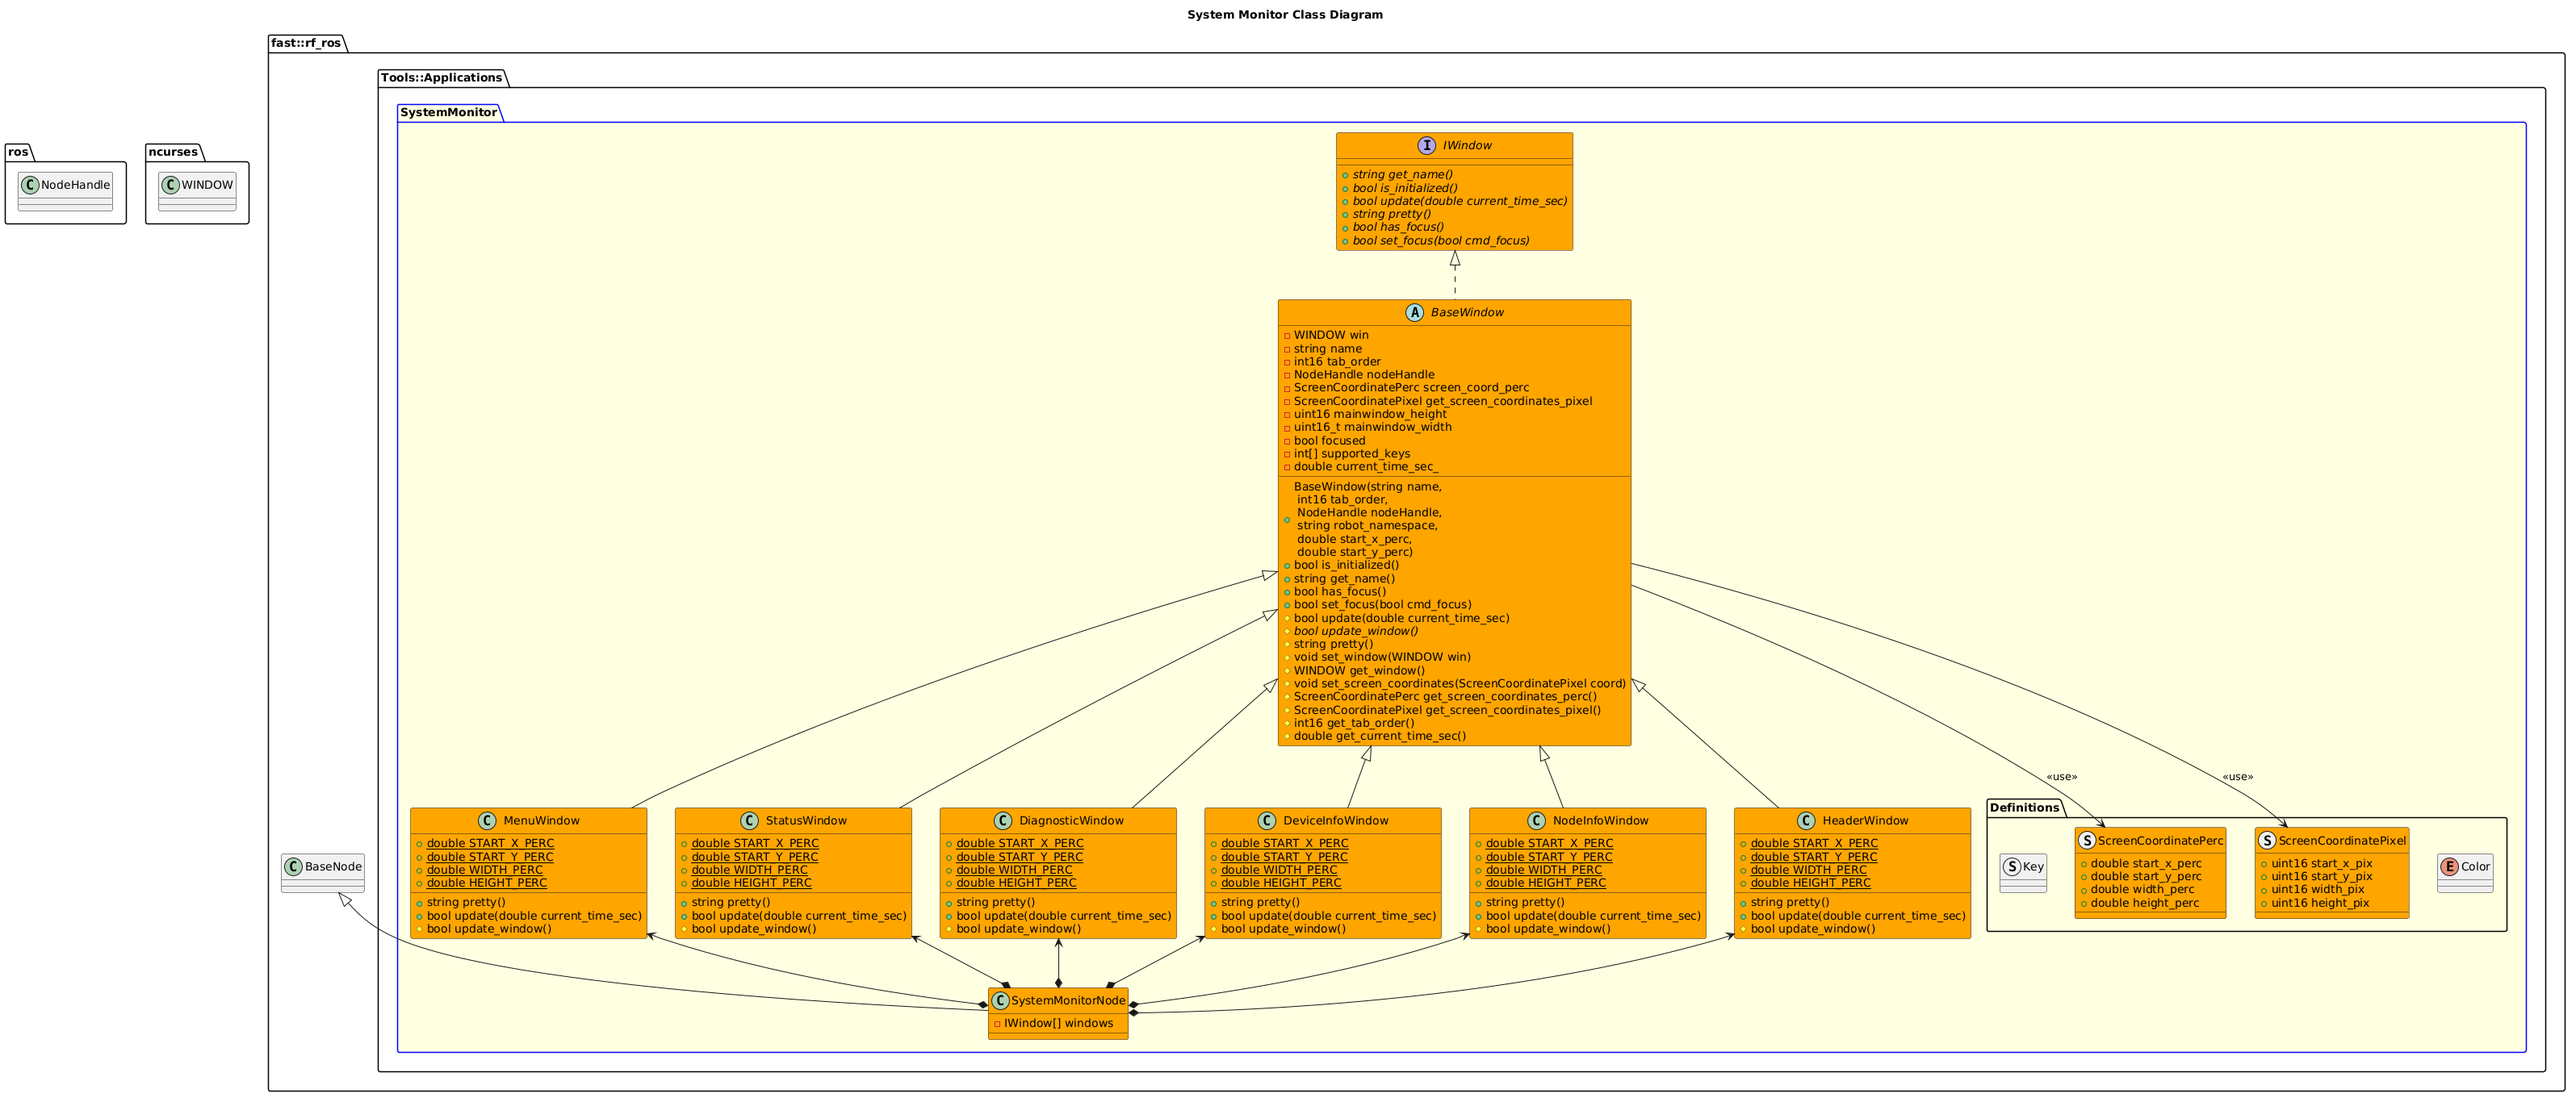
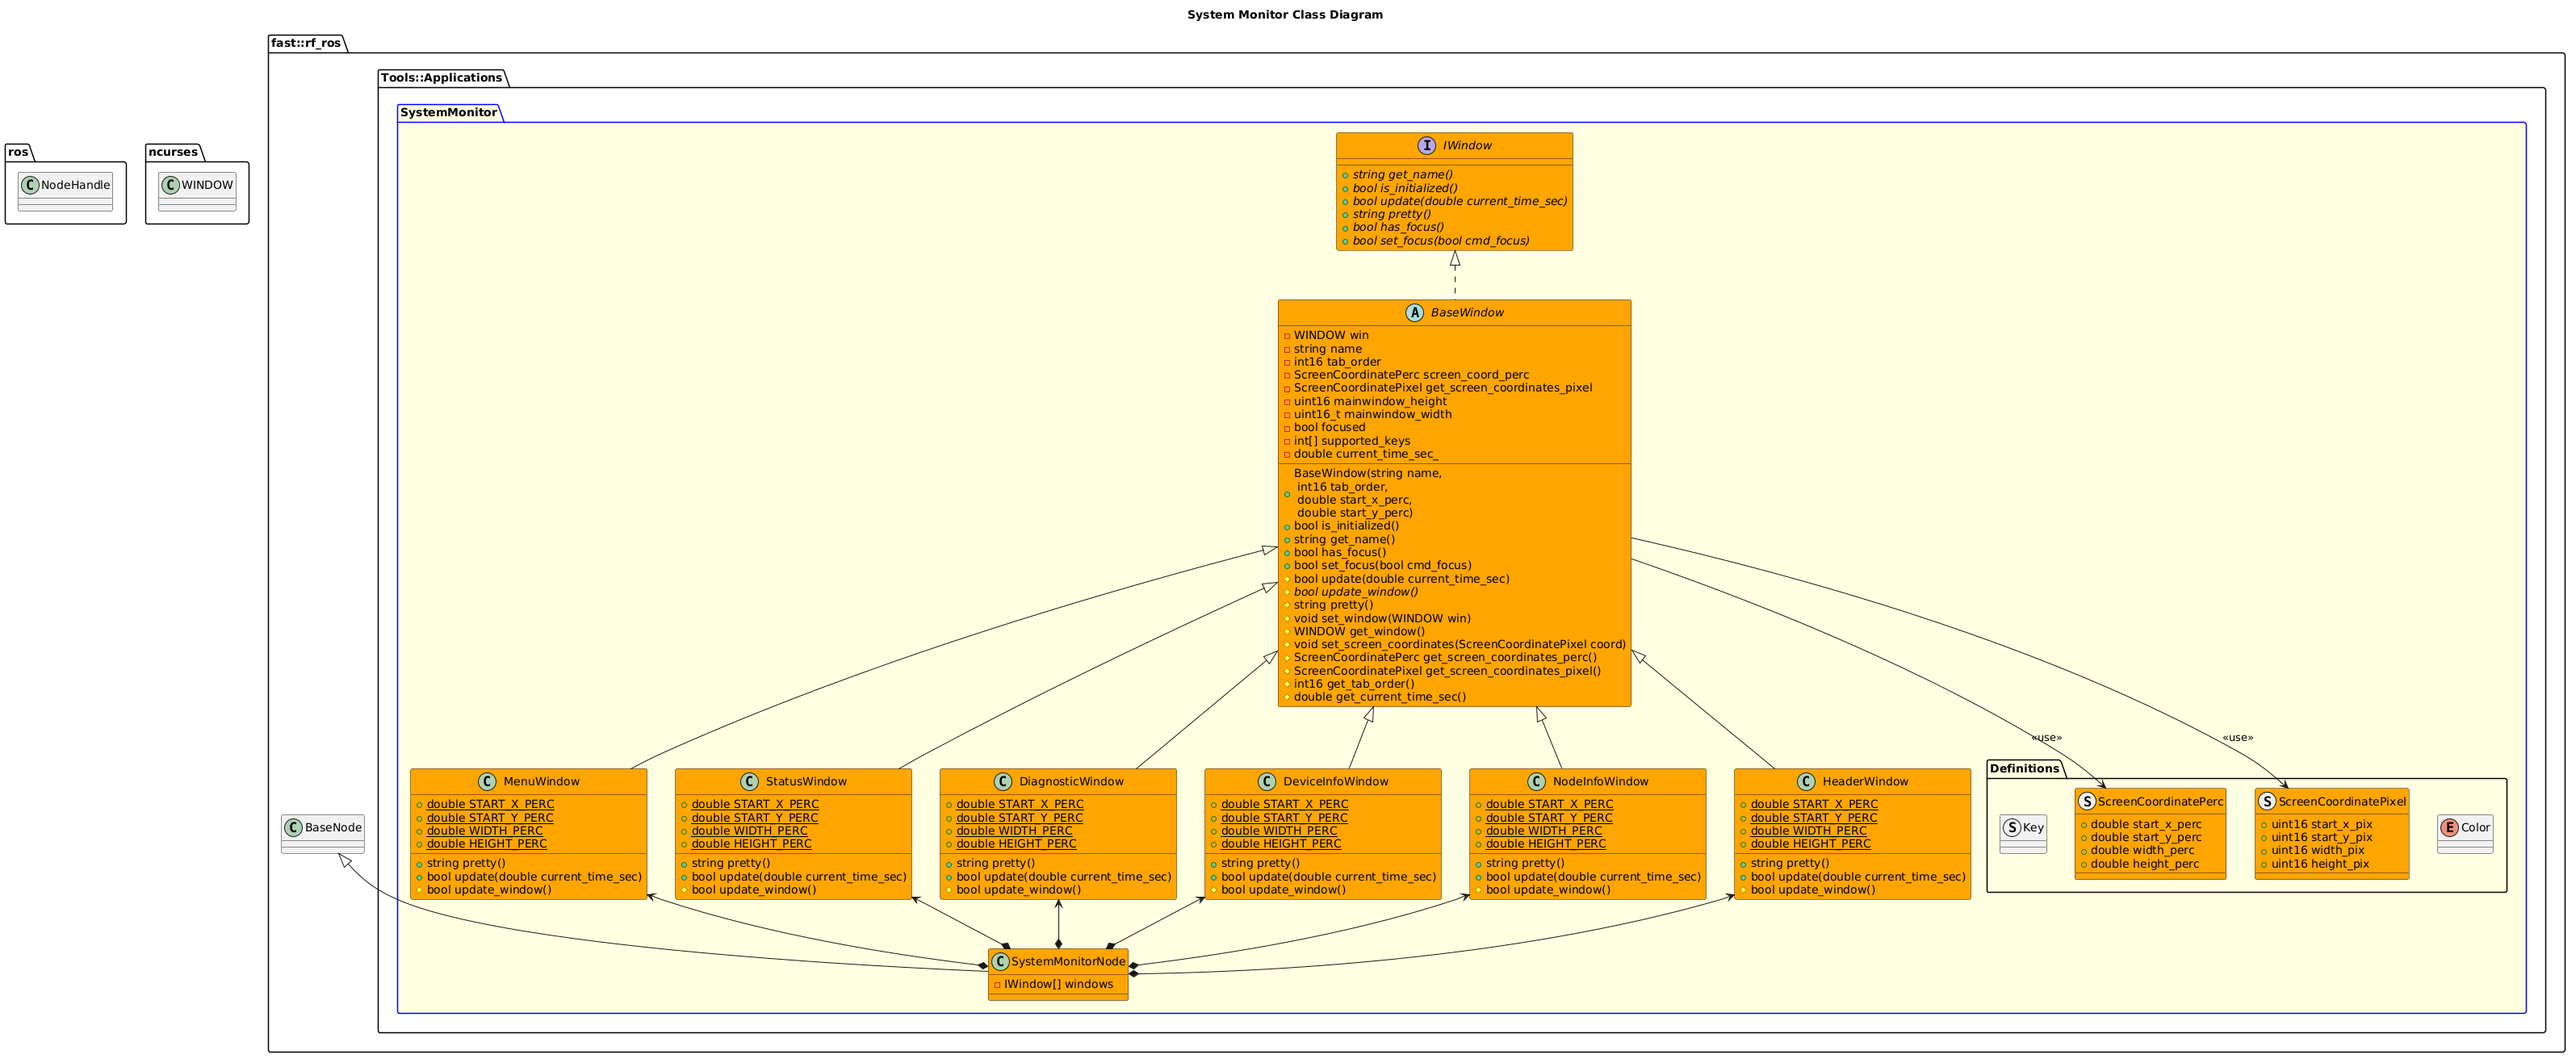
Debug Pipeline.

diff --git a/Tools/Applications/SystemMonitor/include/BaseWindow.hpp b/Tools/Applications/SystemMonitor/include/BaseWindow.hpp
@@ -38,13 +38,10 @@ namespace fast::rf_ros::Tools::Applications::SystemMonitor {
          * @param mainwindow_height
          * @param mainwindow_width
          */
-        BaseWindow(const std::string name, int16_t tab_order, ros::NodeHandle* nodeHandle, std::string robot_namespace,
-                   double start_x_perc, double start_y_perc, double width_perc, double height_perc,
-                   uint16_t mainwindow_height, uint16_t mainwindow_width)
+        BaseWindow(const std::string name, int16_t tab_order, double start_x_perc, double start_y_perc,
+                   double width_perc, double height_perc, uint16_t mainwindow_height, uint16_t mainwindow_width)
             : name(name),
               tab_order(tab_order),
-              nodeHandle(nodeHandle),
-              robot_namespace(robot_namespace),
               screen_coord_perc(start_x_perc, start_y_perc, width_perc, height_perc),
               screen_coord_pixel(0, 0, 0, 0),
               mainwindow_height(mainwindow_height),
@@ -147,8 +144,6 @@ namespace fast::rf_ros::Tools::Applications::SystemMonitor {
         WINDOW* win_{nullptr};
         std::string name{""};
         int16_t tab_order;
-        ros::NodeHandle* nodeHandle;
-        std::string robot_namespace;
         ScreenCoordinatePerc screen_coord_perc;
         ScreenCoordinatePixel screen_coord_pixel;
         uint16_t mainwindow_height;

diff --git a/Tools/Applications/SystemMonitor/include/Windows/StatusWindow.hpp b/Tools/Applications/SystemMonitor/include/Windows/StatusWindow.hpp
@@ -23,10 +23,10 @@ namespace fast::rf_ros::Tools::Applications::SystemMonitor {
             80.0; /*!< What percentage of the screen to put top left corner (Y) of window. */
         static constexpr double WIDTH_PERC = 30.0;  /*!< What percentage of the screen (Width) to draw the window. */
         static constexpr double HEIGHT_PERC = 20.0; /*!< What percentage of the screen (Height) to draw the window. */
-        StatusWindow(int16_t tab_order, ros::NodeHandle* nodeHandle, std::string robot_namespace,
-                     int16_t mainwindow_height, uint16_t mainwindow_width)
-            : BaseWindow("status_window", tab_order, nodeHandle, robot_namespace, START_X_PERC, START_Y_PERC,
-                         WIDTH_PERC, HEIGHT_PERC, mainwindow_height, mainwindow_width) {
+        StatusWindow(int16_t tab_order, std::string robot_namespace, int16_t mainwindow_height,
+                     uint16_t mainwindow_width)
+            : BaseWindow("status_window", tab_order, START_X_PERC, START_Y_PERC, WIDTH_PERC, HEIGHT_PERC,
+                         mainwindow_height, mainwindow_width) {
             ScreenCoordinatePixel coord_pix =
                 convertCoordinate(get_screen_coordinates_perc(), mainwindow_width, mainwindow_height);
             WINDOW* win =

diff --git a/Tools/Applications/SystemMonitor/src/test/test_BaseWindow.cpp b/Tools/Applications/SystemMonitor/src/test/test_BaseWindow.cpp
@@ -7,10 +7,8 @@
 using namespace fast::rf_ros::Tools::Applications::SystemMonitor;
 class TestBaseWindow : public BaseWindow {
    public:
-    TestBaseWindow(int16_t tab_order, ros::NodeHandle* nodeHandle, std::string robot_namespace,
-                   int16_t mainwindow_height, uint16_t mainwindow_width)
-        : BaseWindow("test_window", tab_order, nodeHandle, robot_namespace, 0.0, 0.0, 100.0, 100.0, mainwindow_height,
-                     mainwindow_width) {
+    TestBaseWindow(int16_t tab_order, int16_t mainwindow_height, uint16_t mainwindow_width)
+        : BaseWindow("test_window", tab_order, 0.0, 0.0, 100.0, 100.0, mainwindow_height, mainwindow_width) {
         ScreenCoordinatePixel coord_pix =
             convertCoordinate(get_screen_coordinates_perc(), mainwindow_width, mainwindow_height);
         WINDOW* win =
@@ -34,7 +32,7 @@ class TestBaseWindow : public BaseWindow {
     bool update_window() { return true; }
 };
 TEST(TestBaseWindow, BasicTests) {
-    TestBaseWindow SUT(-1, nullptr, "", 0, 0);
+    TestBaseWindow SUT(-1, 0, 0);
     ASSERT_NE(SUT.get_name(), "");
     ASSERT_FALSE(SUT.is_initialized());
     fast::rf::Logger::log_debug(SUT.pretty());

diff --git a/Tools/Applications/SystemMonitor/include/Windows/HeaderWindow.hpp b/Tools/Applications/SystemMonitor/include/Windows/HeaderWindow.hpp
@@ -33,10 +33,9 @@ namespace fast::rf_ros::Tools::Applications::SystemMonitor {
          * @param mainwindow_height
          * @param mainwindow_width
          */
-        HeaderWindow(int16_t tab_order, ros::NodeHandle* nodeHandle, std::string robot_namespace,
-                     int16_t mainwindow_height, uint16_t mainwindow_width)
-            : BaseWindow("header_window", tab_order, nodeHandle, robot_namespace, START_X_PERC, START_Y_PERC,
-                         WIDTH_PERC, HEIGHT_PERC, mainwindow_height, mainwindow_width) {
+        HeaderWindow(int16_t tab_order, int16_t mainwindow_height, uint16_t mainwindow_width)
+            : BaseWindow("header_window", tab_order, START_X_PERC, START_Y_PERC, WIDTH_PERC, HEIGHT_PERC,
+                         mainwindow_height, mainwindow_width) {
             ScreenCoordinatePixel coord_pix =
                 convertCoordinate(get_screen_coordinates_perc(), mainwindow_width, mainwindow_height);
             WINDOW* win =

diff --git a/Tools/Applications/SystemMonitor/node/SystemMonitorNode.cpp b/Tools/Applications/SystemMonitor/node/SystemMonitorNode.cpp
@@ -70,7 +70,7 @@ namespace fast::rf_ros::Tools::Applications::SystemMonitor {
         uint16_t mainwindow_width, mainwindow_height;
         getmaxyx(stdscr, mainwindow_height, mainwindow_width);
         {
-            IWindow* window = new HeaderWindow(-1, n.get(), get_robotnamespace(), mainwindow_height, mainwindow_width);
+            IWindow* window = new HeaderWindow(-1, mainwindow_height, mainwindow_width);
             if (window->is_initialized() == false) {
                 return false;
             }
@@ -78,7 +78,7 @@ namespace fast::rf_ros::Tools::Applications::SystemMonitor {
             windows[window->get_name()] = window;
         }
         {
-            IWindow* window = new StatusWindow(-1, n.get(), get_robotnamespace(), mainwindow_height, mainwindow_width);
+            IWindow* window = new StatusWindow(-1, mainwindow_height, mainwindow_width);
             if (window->is_initialized() == false) {
                 return false;
             }

diff --git a/Tools/Applications/SystemMonitor/src/Windows/test/test_HeaderWindow.cpp b/Tools/Applications/SystemMonitor/src/Windows/test/test_HeaderWindow.cpp
@@ -6,21 +6,13 @@
 
 using namespace fast::rf_ros::Tools::Applications::SystemMonitor;
 TEST(HeaderWindow, BasicTests) {
-    ros::NodeHandle* n = new ros::NodeHandle("~");
-    HeaderWindow SUT(-1, n, "", 100, 100);
+    HeaderWindow SUT(-1, 100, 100);
     ASSERT_NE(SUT.get_name(), "");
     ASSERT_FALSE(SUT.is_initialized());
     ASSERT_FALSE(SUT.update(0.0));
     fast::rf::Logger::log_debug(SUT.pretty());
-    delete n;
 }
 int main(int argc, char** argv) {
     testing::InitGoogleTest(&argc, argv);
-    ros::init(argc, argv, "test_Windows");
-    ros::AsyncSpinner spinner(1);
-    spinner.start();
-    int ret = RUN_ALL_TESTS();
-    spinner.stop();
-    ros::shutdown();
-    return ret;
+    return RUN_ALL_TESTS();
 }

diff --git a/Tools/Applications/SystemMonitor/src/Windows/test/test_StatusWindow.cpp b/Tools/Applications/SystemMonitor/src/Windows/test/test_StatusWindow.cpp
@@ -6,21 +6,13 @@
 
 using namespace fast::rf_ros::Tools::Applications::SystemMonitor;
 TEST(StatusWindow, BasicTests) {
-    ros::NodeHandle* n = new ros::NodeHandle("~");
-    StatusWindow SUT(-1, n, "", 100, 100);
+    StatusWindow SUT(-1, 100, 100);
     ASSERT_NE(SUT.get_name(), "");
     ASSERT_FALSE(SUT.is_initialized());
     ASSERT_FALSE(SUT.update(0.0));
     fast::rf::Logger::log_debug(SUT.pretty());
-    delete n;
 }
 int main(int argc, char** argv) {
     testing::InitGoogleTest(&argc, argv);
-    ros::init(argc, argv, "test_Windows");
-    ros::AsyncSpinner spinner(1);
-    spinner.start();
-    int ret = RUN_ALL_TESTS();
-    spinner.stop();
-    ros::shutdown();
-    return ret;
+    return RUN_ALL_TESTS();
 }

diff --git a/Tools/Applications/SystemMonitor/src/BaseWindow.cpp b/Tools/Applications/SystemMonitor/src/BaseWindow.cpp
@@ -10,10 +10,6 @@ namespace fast::rf_ros::Tools::Applications::SystemMonitor {
             fast::rf::Logger::log_error("Window: " + name + " Pointer is Null!");
             return false;
         }
-        if (nodeHandle == nullptr) {
-            fast::rf::Logger::log_error("Window: " + name + " Node Handle is Null!");
-            return false;
-        }
         return true;
     }
     bool BaseWindow::update(double current_time_sec) {
